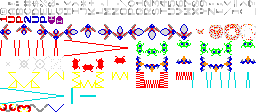
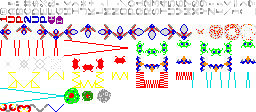
Added nucleus & asteroid gfx, removed enemy lasers.

Changed region(s): [[0.25, 0.7768, 0.4375, 0.9375]]

diff --git a/src/obj/laser.c b/src/obj/laser.c
@@ -1,7 +1,6 @@
 #include "laser.h"
 
 Laser lasers[LASER_COUNT];
-Laser lasersEnemy[LASER_COUNT_ENEMY];
 
 void LaserUpdateTileIndex(u8);
 
@@ -31,37 +30,6 @@ u8 LaserInit(direction dir, u8 x, u8 y) {
             }
 
             lasers[i].active = 1;
-            return 1;
-        }
-    }
-
-    return 0;
-}
-
-u8 LaserEnemyInit(direction dir, u8 x, u8 y) {
-    u8 i = LASER_COUNT;
-
-    while(i--) {
-        if(!lasersEnemy[i].active) {
-            lasersEnemy[i].dir = dir;
-            lasersEnemy[i].x = x;
-            lasersEnemy[i].y = y;
-            lasersEnemy[i].time = 0;
-            lasersEnemy[i].tileIndex = 0;
-            lasersEnemy[i].backfeed = false;
-            lasersEnemy[i].w = 2;
-            lasersEnemy[i].h = 2;
-
-            switch(dir) {
-                case WEST:
-                case EAST:
-                    DrawMap(lasersEnemy[i].x, lasersEnemy[i].y, mapEnemyLaserHorizontal);
-                    break;
-                default:
-                    DrawMap(lasersEnemy[i].x, lasersEnemy[i].y, mapEnemyLaserVertical);
-            }
-
-            lasersEnemy[i].active = 1;
             return 1;
         }
     }
@@ -166,58 +134,7 @@ void LaserUpdateTileIndex(u8 i) {
     }
 }
 
-void LaserEnemyUpdate(u8 i) {
-    if(!lasersEnemy[i].active) {
-        return;
-    }
-
-    lasersEnemy[i].time++;
-    if(lasersEnemy[i].time % 4) {
-        return;
-    }
-
-    Fill(lasersEnemy[i].x, lasersEnemy[i].y, lasersEnemy[i].w, lasersEnemy[i].h, 0);
-    switch(lasersEnemy[i].dir) {
-        case WEST:
-            if(lasersEnemy[i].y == EDGE_WEST) {
-                LaserEnemyDeactivate(i);
-            } else {
-                lasersEnemy[i].y++;
-                DrawMap(lasersEnemy[i].x, lasersEnemy[i].y, mapEnemyLaserHorizontal);
-            }
-            break;
-        case EAST:
-            if(lasersEnemy[i].y == EDGE_EAST) {
-                LaserEnemyDeactivate(i);
-            } else {
-                lasersEnemy[i].y--;
-                DrawMap(lasersEnemy[i].x, lasersEnemy[i].y, mapEnemyLaserHorizontal);
-            }
-            break;
-        case NORTH:
-            if(lasersEnemy[i].y == EDGE_NORTH) {
-                LaserEnemyDeactivate(i);
-            } else {
-                lasersEnemy[i].x--;
-                DrawMap(lasersEnemy[i].x, lasersEnemy[i].y, mapEnemyLaserVertical);
-            }
-            break;
-        default:
-            if(lasersEnemy[i].y == EDGE_SOUTH) {
-                LaserEnemyDeactivate(i);
-            } else {
-                lasersEnemy[i].x++;
-                DrawMap(lasersEnemy[i].x, lasersEnemy[i].y, mapEnemyLaserVertical);
-            }
-    }
-}
-
 void LaserDeactivate(u8 i) {
     Fill(lasers[i].x, lasers[i].y, lasers[i].w, lasers[i].h, 0);
     lasers[i].active = 0;
-}
-
-void LaserEnemyDeactivate(u8 i) {
-    Fill(lasersEnemy[i].x, lasersEnemy[i].y, lasersEnemy[i].w, lasersEnemy[i].h, 0);
-    lasersEnemy[i].active = 0;
 }

diff --git a/src/obj/collision.c b/src/obj/collision.c
@@ -2,7 +2,6 @@
 
 u8 CollisionCheck(u8 *, u8 *, u8, u8, u8 *, u8 *, u8, u8);
 u8 CollisionEnemyLaserPreCheck(Enemy *, Laser *);
-u8 CollisionPlayerLaserPreCheck(Player *, Laser *);
 u8 CollisionEnemyPlayerPreCheck(Enemy *, Player *);
 
 u8 CollisionCheck(
@@ -97,17 +96,6 @@ void CollisionRunAll() {
         )) {
             PlayerKill();
             LaserDeactivate(i);
-        }
-    }
-
-    i = LASER_COUNT_ENEMY;
-    while(i--) {
-        if(CollisionPlayerLaserPreCheck(&players[activePlayer], &lasersEnemy[i]) && CollisionCheck(
-            &lasersEnemy[i].x, &lasersEnemy[i].y, lasersEnemy[i].w, lasersEnemy[i].h,
-            &players[activePlayer].x, &players[activePlayer].y, PLAYER_WIDTH, PLAYER_HEIGHT
-        )) {
-            PlayerKill();
-            LaserEnemyDeactivate(i);
         }
     }
 }

diff --git a/src/obj/enemy.c b/src/obj/enemy.c
@@ -84,10 +84,10 @@ void EnemyInvaderUpdate(u8 i) {
     s8 xDelta = 0, yDelta = 0;
     EnemyGetDelta(&xDelta, &yDelta, &enemyPool[i].dir);
 
-    enemyPool[i].animationTime = enemyPool[i].animationTime == 79 ? 0 : enemyPool[i].animationTime + 1;
+    enemyPool[i].animationTime = enemyPool[i].animationTime == 39 ? 0 : enemyPool[i].animationTime + 1;
 
     // Update on next animation
-    if(enemyPool[i].animationTime == 0 || enemyPool[i].animationTime == 40) {
+    if(enemyPool[i].animationTime == 0 || enemyPool[i].animationTime == 20) {
         Fill(enemyPool[i].x, enemyPool[i].y, ENEMY_WIDTH, ENEMY_HEIGHT, 0);
         enemyPool[i].x += xDelta;
         enemyPool[i].y += yDelta;

diff --git a/src/obj/laser.h b/src/obj/laser.h
@@ -5,7 +5,6 @@
 #include "../system/graphics.h"
 
 #define LASER_COUNT 2
-#define LASER_COUNT_ENEMY 2
 
 typedef struct {
     u8 active, x, y, w, h, time, tileIndex, backfeed;
@@ -13,13 +12,9 @@ typedef struct {
 } Laser;
 
 extern Laser lasers[];
-extern Laser lasersEnemy[];
 
 void LaserUpdate(u8);
-void LaserEnemyUpdate(u8);
 u8 LaserInit(direction, u8, u8);
-u8 LaserEnemyInit(direction, u8, u8);
 void LaserDeactivate(u8);
-void LaserEnemyDeactivate(u8);
 
 #endif

diff --git a/src/main.c b/src/main.c
@@ -57,11 +57,6 @@ int main() {
             LaserUpdate(i);
         }
 
-        i = LASER_COUNT_ENEMY;
-        while(i--) {
-            LaserEnemyUpdate(i);
-        }
-
         i = ENEMY_COUNT;
         while(i--) {
             EnemyUpdate(i);

diff --git a/src/obj/enemy.h b/src/obj/enemy.h
@@ -19,7 +19,7 @@
 #define ENEMY_EAST_START_Y 11
 
 typedef enum {
-  INVADER, SWEEPER, SPARX
+  INVADER, SWEEPER, SPARX, NUCLEUS, ASTEROID
 } enemytype;
 
 typedef struct {
